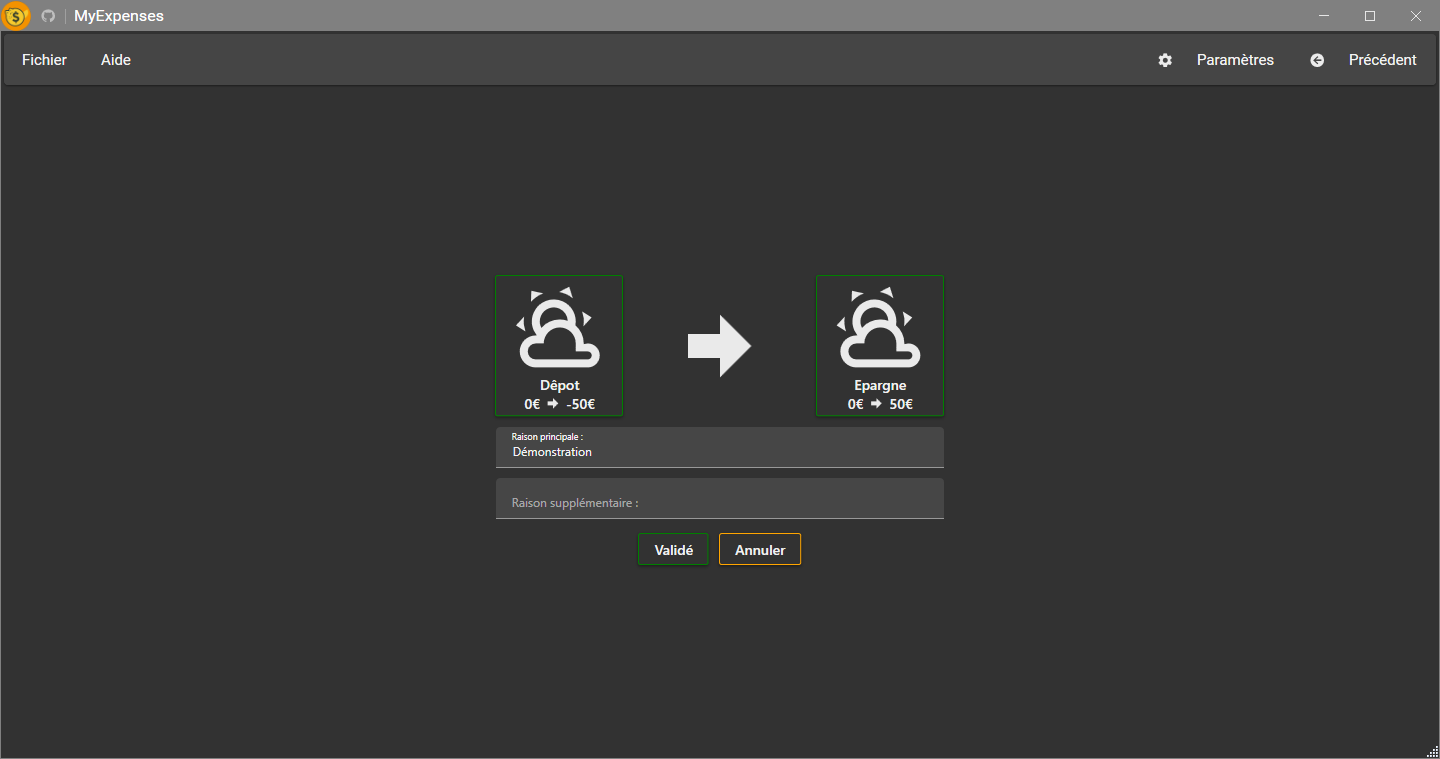
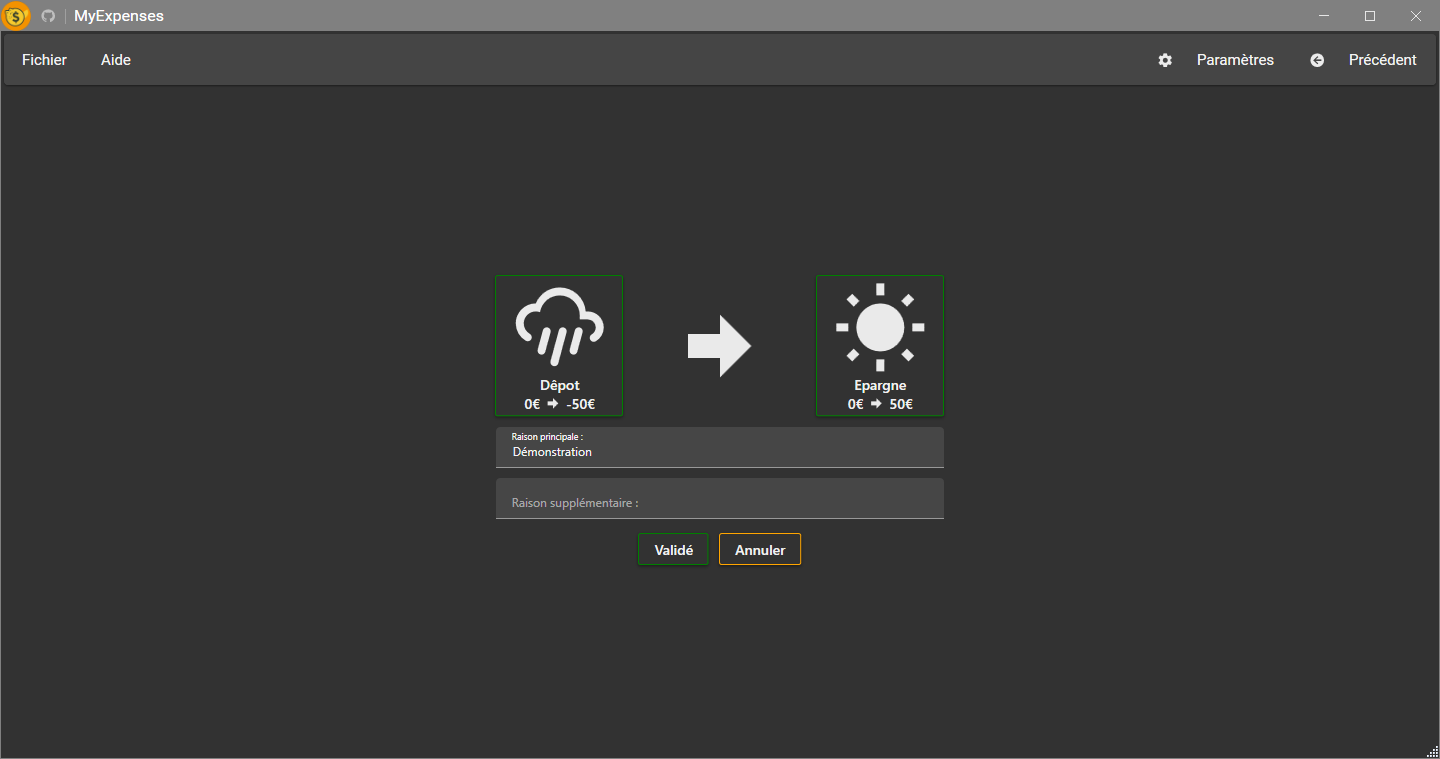
ci(Update): Update bindings in BankTransferPage.xaml to use new properties
Changed the bindings of materialDesign:PackIcon in BankTransferPage.xaml
from VFromAccount.Total and VToAccount.Total to VFromAccountReduce and
VToAccountIncrease respectively. This ensures the icons reflect the
correct state based on the new property names.

Changed region(s): [[0.3438, 0.3636, 0.4375, 0.4848], [0.5625, 0.3636, 0.6562, 0.4848]]

diff --git a/MyExpenses.Wpf/Pages/BankTransferPage.xaml b/MyExpenses.Wpf/Pages/BankTransferPage.xaml
@@ -210,7 +210,7 @@
                                 VerticalAlignment="Center">
 
                         <materialDesign:PackIcon
-                            Kind="{Binding VFromAccount.Total, FallbackValue=0, Mode=TwoWay, UpdateSourceTrigger=PropertyChanged, Converter={StaticResource TotalToIconConverter}}"
+                            Kind="{Binding VFromAccountReduce, FallbackValue=0, Mode=TwoWay, UpdateSourceTrigger=PropertyChanged, Converter={StaticResource TotalToIconConverter}}"
                             Height="96" Width="96"
                             HorizontalAlignment="Center">
                         </materialDesign:PackIcon>
@@ -269,7 +269,7 @@
                                 VerticalAlignment="Center">
 
                         <materialDesign:PackIcon
-                            Kind="{Binding VToAccount.Total, FallbackValue=0, Mode=TwoWay, UpdateSourceTrigger=PropertyChanged, Converter={StaticResource TotalToIconConverter}}"
+                            Kind="{Binding VToAccountIncrease, FallbackValue=0, Mode=TwoWay, UpdateSourceTrigger=PropertyChanged, Converter={StaticResource TotalToIconConverter}}"
                             Height="96" Width="96"
                             HorizontalAlignment="Center">
                         </materialDesign:PackIcon>
